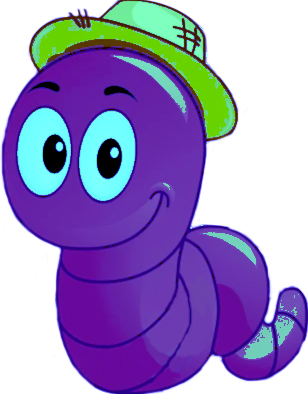
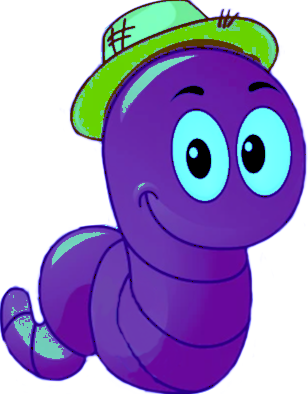
worm only flips on own turn

diff --git a/public/models/game.js b/public/models/game.js
@@ -6,8 +6,8 @@ class Game {
     this.world = this.engine.world;
     this.bullets = [];
     this.ground = new ground({x: p.width/2, y: p.height-20, w: p.width, h: 180, world: this.world, matter: matter})
-    this.worm = new worm({x: (p.windowWidth/10)*2, y: p.windowHeight - 100, options: "wormOne", img: imgs[0], matter: matter});
-    this.worm2 = new worm({x: (p.windowWidth/10)*8, y: p.windowHeight - 100, options: "wormTwo", img: imgs[1], matter: matter});
+    this.worm = new worm({x: (p.windowWidth/10)*2, y: p.windowHeight - 100, options: "wormOne", img: imgs[0], matter: matter, direction: "right"});
+    this.worm2 = new worm({x: (p.windowWidth/10)*8, y: p.windowHeight - 100, options: "wormTwo", img: imgs[1], matter: matter, direction: "left"});
     matter.World.add(this.world, [this.worm.body,this.worm2.body]);
     this.mode = "start";
     this.player1Turn = true;

diff --git a/public/entities/worm.js b/public/entities/worm.js
@@ -16,7 +16,8 @@ class Worm {
     const pos = this.body.position;
     const angle = this.body.angle;
     this.body.mass = 8
-    if (this.flip === false) {
+    console.log(this.direction)
+    if (this.direction === "right") {
       p.push();
       p.translate(pos.x, pos.y);
       p.rotate(angle);
@@ -78,8 +79,8 @@ class Worm {
     }
   }
 
-  flipWorm() {
-    this.direction === "left" ? this.direction = "right" : this.direction = "left";
+  setDirection(direction) {
+    this.direction = direction;
   }
 }
 

diff --git a/public/sketch.js b/public/sketch.js
@@ -49,8 +49,12 @@ class Sketch {
 
       p.draw = () => {
         ScreenController.setScreen(p, game, [wormsLogoImg, backgroundImg, gameOver]);
-        if (p.mouseX < game.worm.body.position.x) {
-          game.worm.flipWorm();
+        if(game.player1Turn === true) {
+          if (p.mouseX < game.worm.body.position.x) {
+            game.worm.setDirection("left");
+          } else {
+            game.worm.setDirection("right");
+          }
         }
       }
 

diff --git a/test/wormTest.js b/test/wormTest.js
@@ -52,8 +52,8 @@ describe('Worm', () => {
       done();
     });
 
-    it('changes the worm direction', function(done) {
-      worm.flipWorm();
+    it('changes the worm direction to left', function(done) {
+      worm.setDirection("left");
       expect(worm.direction).to.eq("left");
       done();
     })
